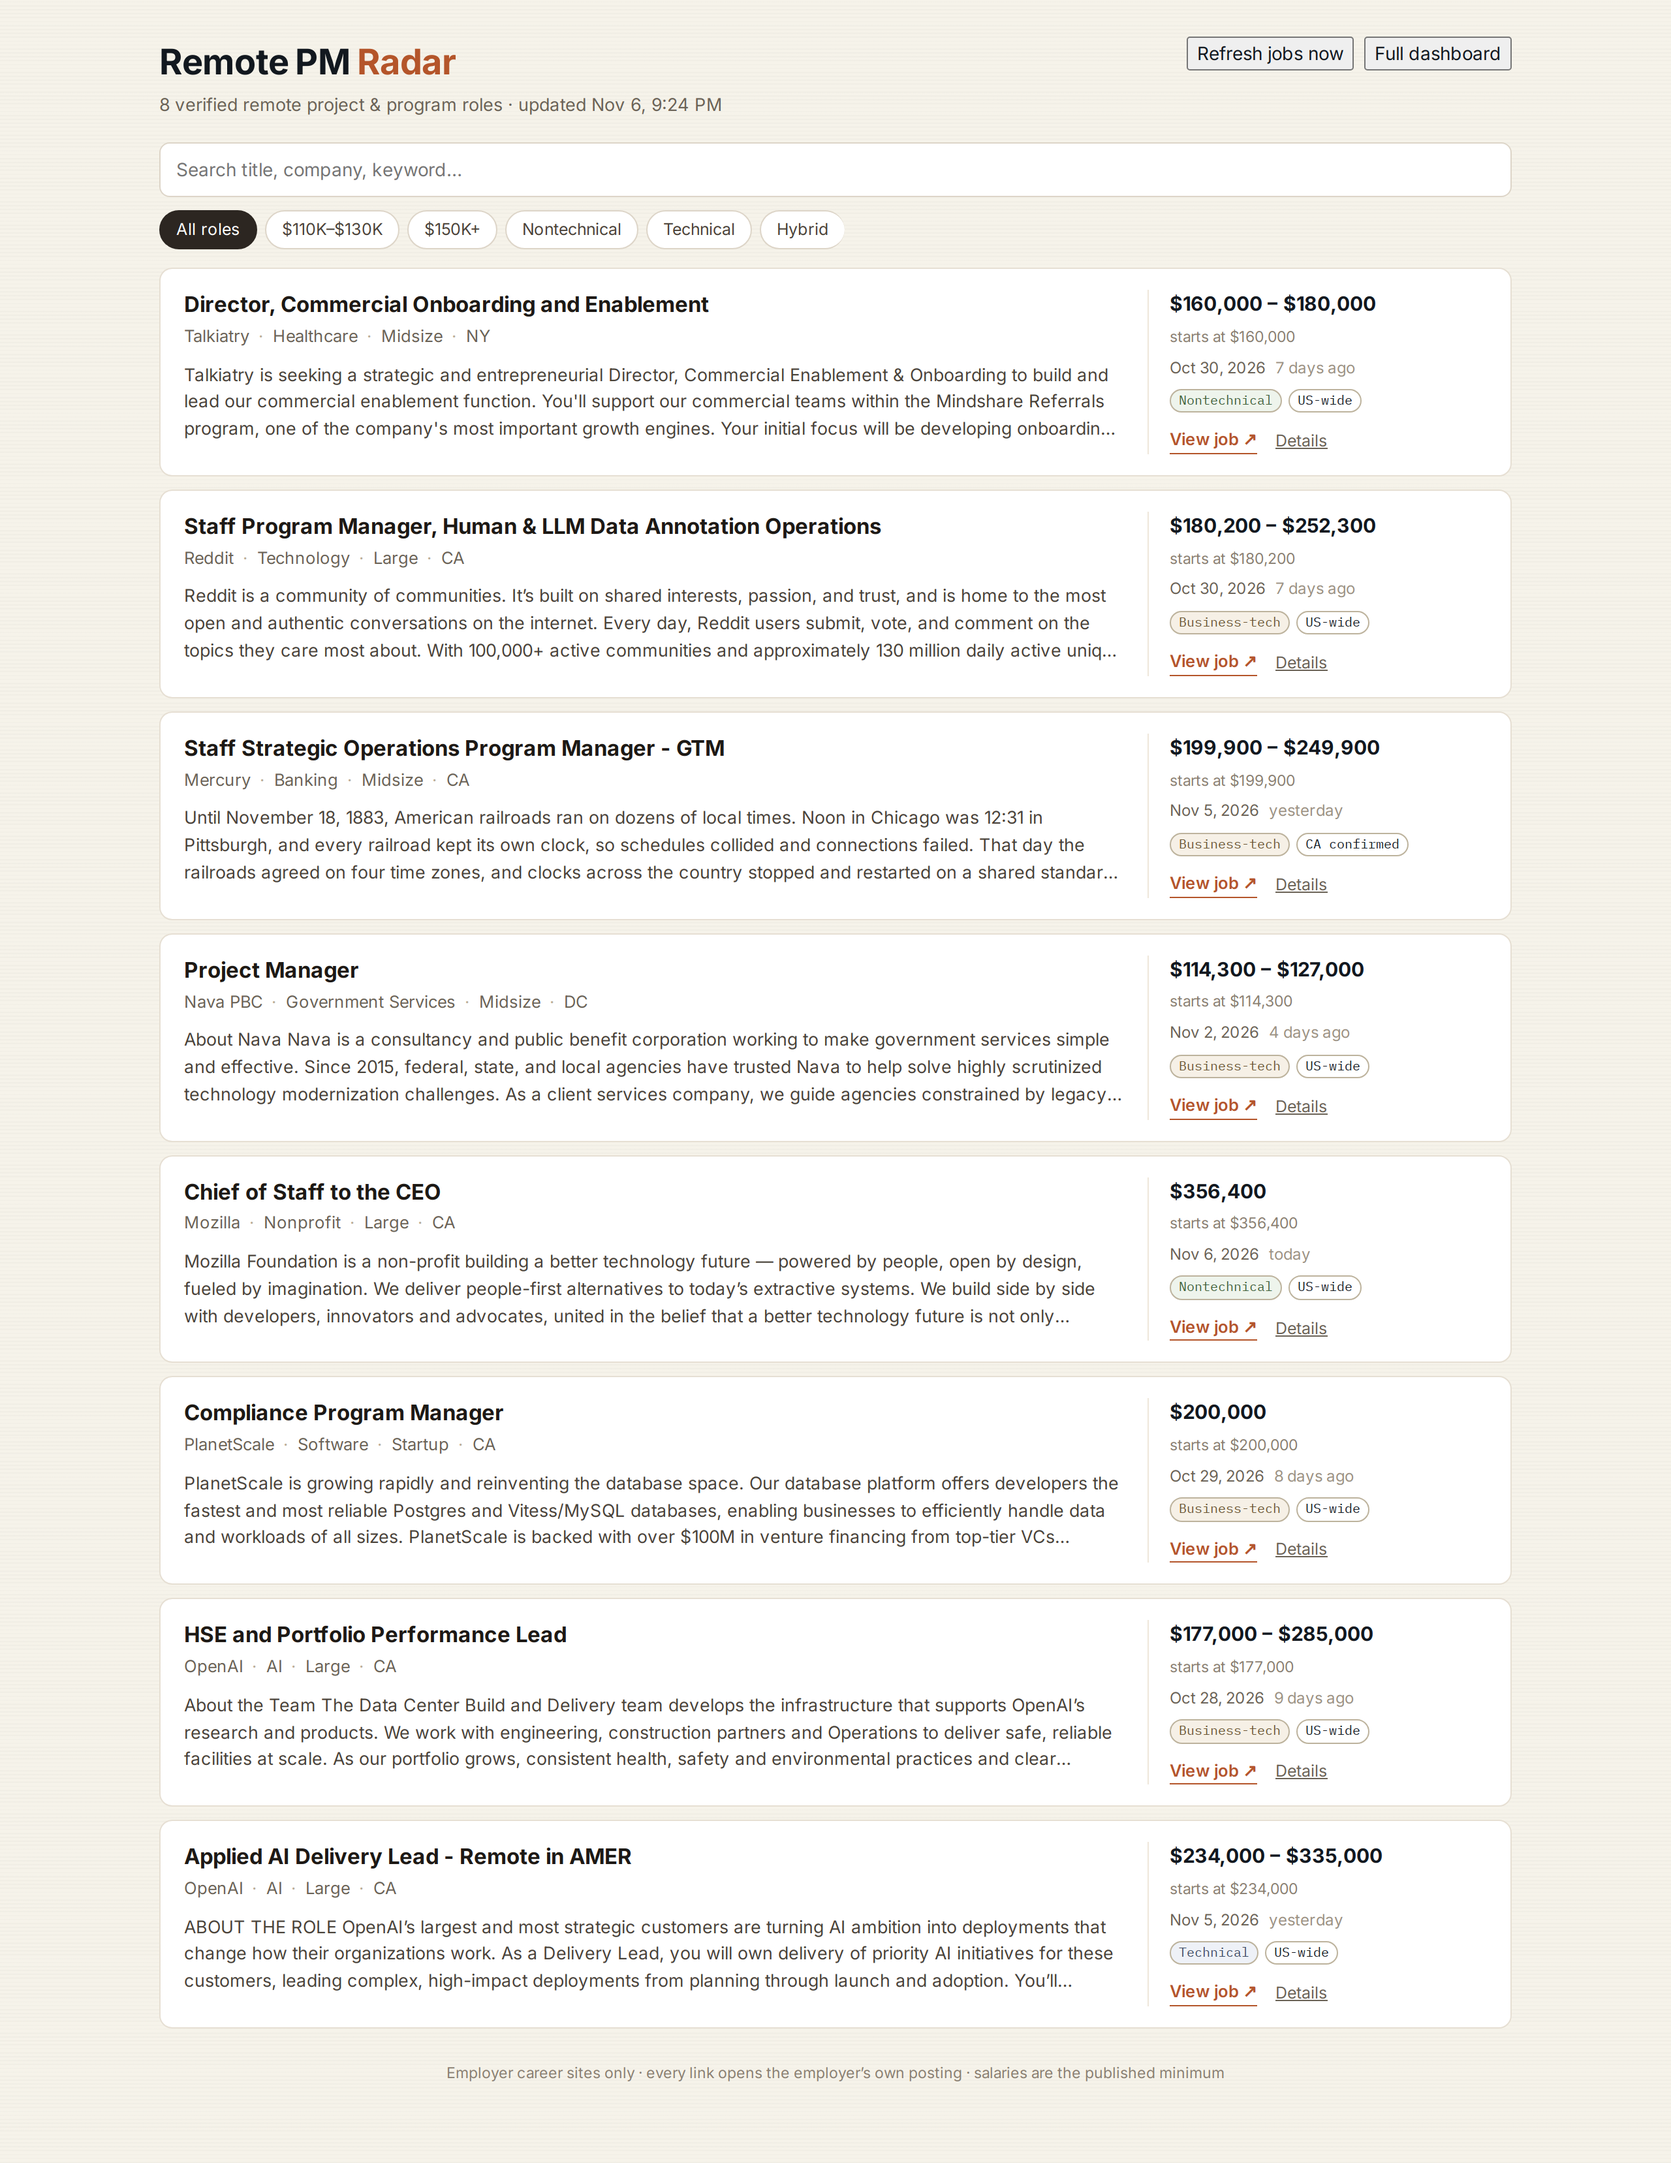
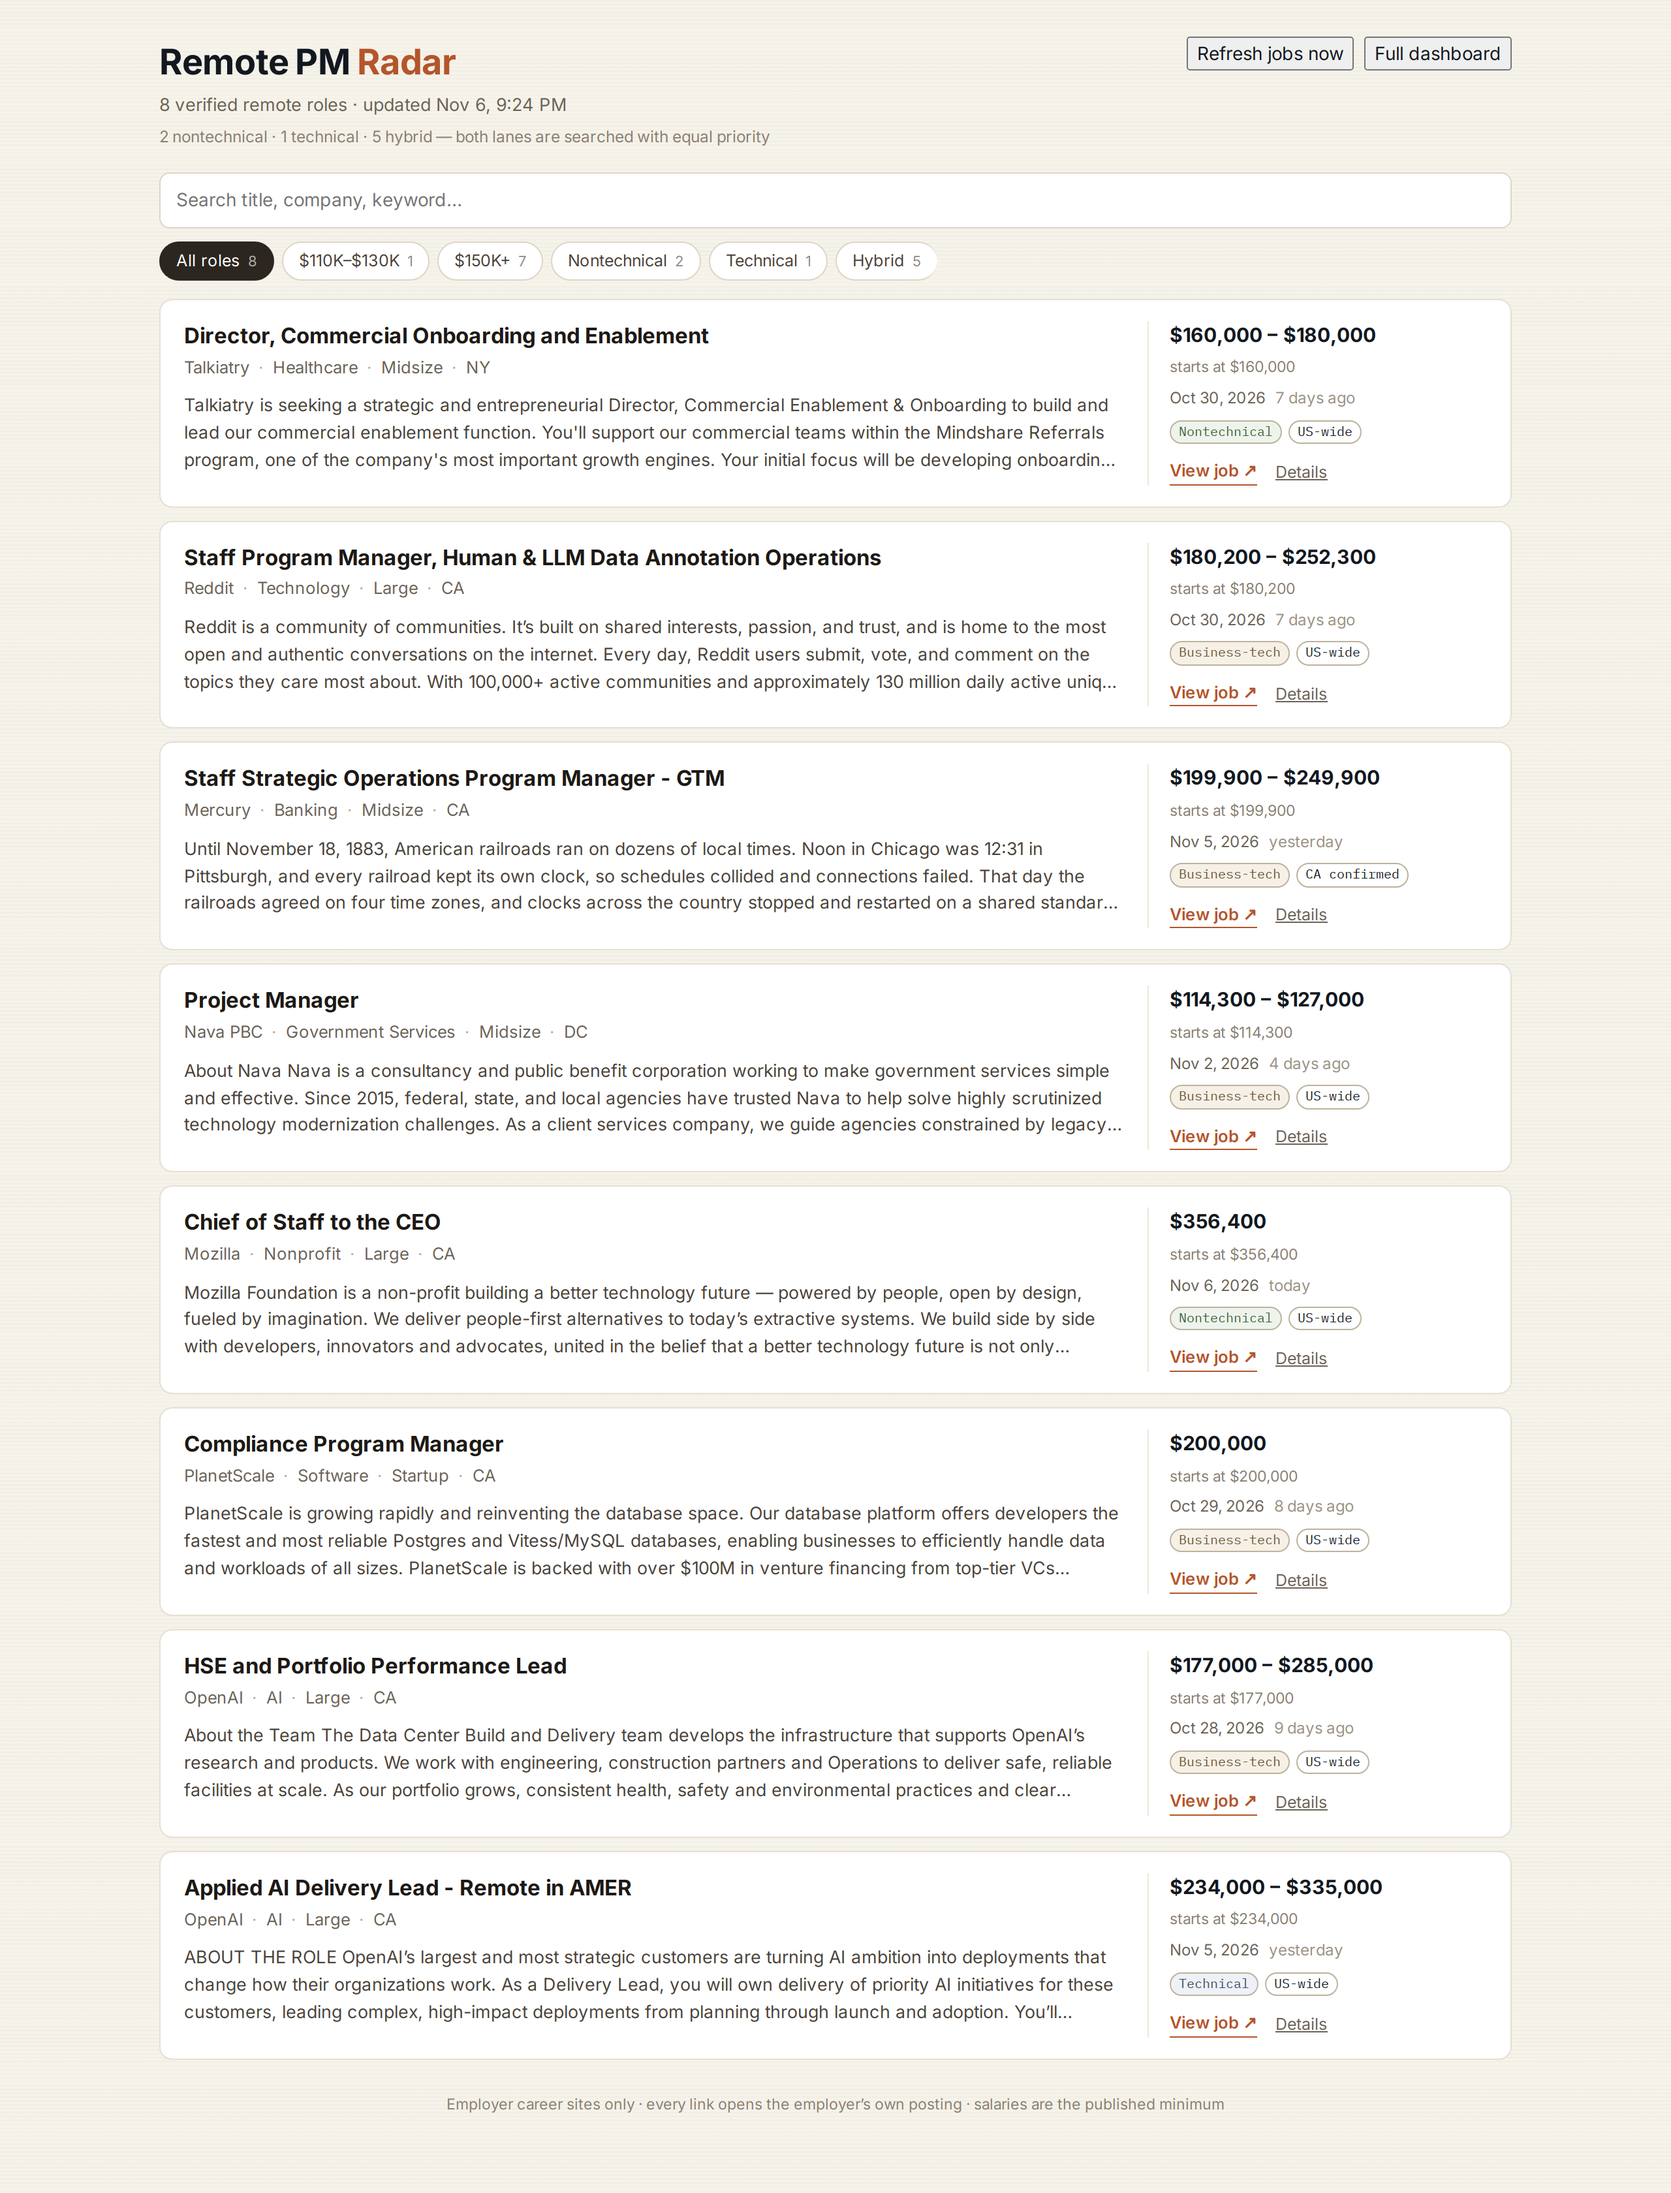
Nontechnical balance on the board, title coverage test 86/86, rules updated

Changed region(s): [[0.0938, 0.0311, 0.9062, 0.9635], [0.7188, 0.0, 0.75, 0.0311]]

diff --git a/scripts/check-titles.ts b/scripts/check-titles.ts
@@ -1,0 +1,64 @@
+import { isPmTitle } from '../server/engine/titles';
+
+/** The 86 nontechnical titles from Jeanine's master prompt. All must be recognised. */
+const NONTECH = [
+  'Nontechnical Project Manager', 'Nontechnical Program Manager', 'Business Project Manager',
+  'Business Program Manager', 'Senior Business Project Manager', 'Operations Project Manager',
+  'Operations Program Manager', 'Senior Operations Project Manager', 'Senior Operations Program Manager',
+  'Strategic Project Manager', 'Strategic Program Manager', 'Strategic Initiatives Manager',
+  'Corporate Project Manager', 'Enterprise Project Manager', 'Enterprise Program Manager',
+  'Administrative Project Manager', 'Business Transformation Project Manager',
+  'Business Transformation Program Manager', 'Process Improvement Project Manager',
+  'Operational Excellence Program Manager', 'Organizational Change Project Manager',
+  'Change Management Program Manager', 'Marketing Project Manager', 'Marketing Program Manager',
+  'Creative Project Manager', 'Creative Operations Project Manager', 'Advertising Project Manager',
+  'Agency Project Manager', 'Communications Project Manager', 'Brand Project Manager',
+  'Campaign Project Manager', 'Event Project Manager', 'Event Program Manager',
+  'Healthcare Operations Project Manager', 'Healthcare Program Manager',
+  'Healthcare Administration Project Manager', 'Healthcare Transformation Project Manager',
+  'Health Insurance Program Manager', 'Human Resources Project Manager', 'Human Resources Program Manager',
+  'People Operations Program Manager', 'Workforce Transformation Project Manager',
+  'Procurement Project Manager', 'Procurement Program Manager', 'Strategic Sourcing Project Manager',
+  'Vendor Management Program Manager', 'Contract Management Program Manager', 'Compliance Project Manager',
+  'Regulatory Project Manager', 'Regulatory Program Manager', 'Government Project Manager',
+  'Government Program Manager', 'Federal Contract Project Manager', 'Government Services Program Manager',
+  'Public Sector Project Manager', 'Consulting Project Manager', 'Consulting Program Manager',
+  'Client Services Project Manager', 'Client Delivery Program Manager', 'Professional Services Project Manager',
+  'Professional Services Program Manager', 'Customer Success Program Manager',
+  'Customer Implementation Program Manager', 'Education Project Manager', 'University Program Manager',
+  'Higher Education Program Manager', 'Nonprofit Program Manager', 'Foundation Program Manager',
+  'Grants Program Manager', 'Construction Project Manager', 'Construction Program Manager',
+  'Facilities Project Manager', 'Infrastructure Program Manager', 'Manufacturing Project Manager',
+  'Manufacturing Program Manager', 'Supply Chain Project Manager', 'Logistics Program Manager',
+  'Quality Improvement Project Manager', 'Quality Assurance Program Manager', 'Portfolio Manager',
+  'PMO Manager', 'PMO Director', 'Senior Project Manager', 'Senior Program Manager',
+  'Project Director', 'Program Director',
+];
+
+const TECHNICAL = [
+  'Technical Project Manager', 'Technical Program Manager', 'IT Project Manager', 'IT Program Manager',
+  'Senior Technical Project Manager', 'Senior Technical Program Manager', 'Enterprise Systems Project Manager',
+  'Software Implementation Project Manager', 'SaaS Implementation Project Manager',
+  'Digital Transformation Program Manager', 'AI Program Manager', 'Automation Project Manager',
+  'Healthcare IT Project Manager', 'Epic Project Manager', 'Workday Program Manager', 'ERP Project Manager',
+  'Salesforce Program Manager', 'ServiceNow Project Manager', 'Infrastructure Project Manager',
+  'Cybersecurity Program Manager', 'Systems Integration Project Manager', 'Implementation Manager',
+  'Technology Delivery Manager', 'Technical Delivery Manager', 'Technical Portfolio Manager',
+];
+
+const misses = NONTECH.filter((title) => !isPmTitle(title));
+const techMisses = TECHNICAL.filter((title) => !isPmTitle(title));
+
+console.log(`nontechnical recognised: ${NONTECH.length - misses.length}/${NONTECH.length}`);
+if (misses.length) console.log('  MISSED:', misses.join(' | '));
+console.log(`technical recognised: ${TECHNICAL.length - techMisses.length}/${TECHNICAL.length}`);
+if (techMisses.length) console.log('  MISSED:', techMisses.join(' | '));
+
+// Non-PM roles must stay out.
+const mustReject = [
+  'Software Engineer', 'Registered Nurse', 'Account Executive', 'Data Scientist',
+  'Product Manager', 'Office Manager', 'Account Manager', 'Sales Manager', 'Engineering Manager',
+];
+const wrong = mustReject.filter((title) => isPmTitle(title));
+console.log(`correctly rejected: ${mustReject.length - wrong.length}/${mustReject.length}`);
+if (wrong.length) console.log('  WRONGLY ACCEPTED:', wrong.join(' | '));

diff --git a/client/src/components/SimpleBoard.tsx b/client/src/components/SimpleBoard.tsx
@@ -29,6 +29,15 @@ export function SimpleBoard({ jobs, refreshing, progress, lastRefresh, onRefresh
 
   const active = useMemo(() => jobs.filter((job) => job.bucket === 'tab1' || job.bucket === 'tab2'), [jobs]);
 
+  const counts = useMemo(() => ({
+    all: active.length,
+    tab1: active.filter((job) => job.bucket === 'tab1').length,
+    tab2: active.filter((job) => job.bucket === 'tab2').length,
+    Nontechnical: active.filter((job) => job.category === 'Nontechnical').length,
+    Technical: active.filter((job) => job.category === 'Technical').length,
+    Hybrid: active.filter((job) => job.category === 'Hybrid').length,
+  }), [active]);
+
   const shown = useMemo(() => {
     const needle = q.trim().toLowerCase();
     return active
@@ -53,8 +62,13 @@ export function SimpleBoard({ jobs, refreshing, progress, lastRefresh, onRefresh
             Remote PM <span>Radar</span>
           </h1>
           <p className="simple-sub">
-            {active.length} verified remote project &amp; program roles
+            {active.length} verified remote roles
             {lastRefresh ? ` · updated ${lastRefresh}` : ''}
+            <br />
+            <span className="simple-balance">
+              {counts.Nontechnical} nontechnical · {counts.Technical} technical · {counts.Hybrid} hybrid
+              — both lanes are searched with equal priority
+            </span>
           </p>
         </div>
         <div className="simple-actions">
@@ -84,6 +98,7 @@ export function SimpleBoard({ jobs, refreshing, progress, lastRefresh, onRefresh
               onClick={() => setLane(item.key)}
             >
               {item.label}
+              <span className="chip-count">{counts[item.key]}</span>
             </button>
           ))}
         </div>

diff --git a/client/src/styles.css b/client/src/styles.css
@@ -777,3 +777,6 @@ table.plain tbody tr:hover { background: #fbf8ef; }
   .jobrow { grid-template-columns: 1fr; }
   .jobrow-side { border-left: none; padding-left: 0; border-top: 1px solid #eee7da; padding-top: 10px; }
 }
+
+.chip-count { margin-left: 6px; font-size: 11px; opacity: 0.62; }
+.simple-balance { display: inline-block; margin-top: 5px; font-size: 12.2px; color: #8a8072; }

diff --git a/RULES.md b/RULES.md
@@ -20,7 +20,11 @@ button. It stores everything in Postgres and refreshes on a four-hour schedule.
 2. Employers must accept California residents working remotely.
 3. Original posting date inside the posting window (see §4).
 4. Two salary tabs: **$110,000–$130,000** and **$150,000+ with no ceiling**.
-5. Technical and nontechnical project/program management have **equal** priority.
+5. Technical and nontechnical project/program management have **equal** priority. Nontechnical means
+   business operations, leadership, budgets, vendor management, planning, strategy, process
+   improvement, project execution, compliance, procurement, administration and cross-functional
+   coordination — a role does **not** need software, IT systems, engineering or coding to qualify, and
+   the search must be run aggressively for these titles, not as a fallback.
 6. Employers across all 50 states.
 7. Every industry.
 8. Startups, small companies, midsize companies, major corporations, consulting firms, nonprofits,
